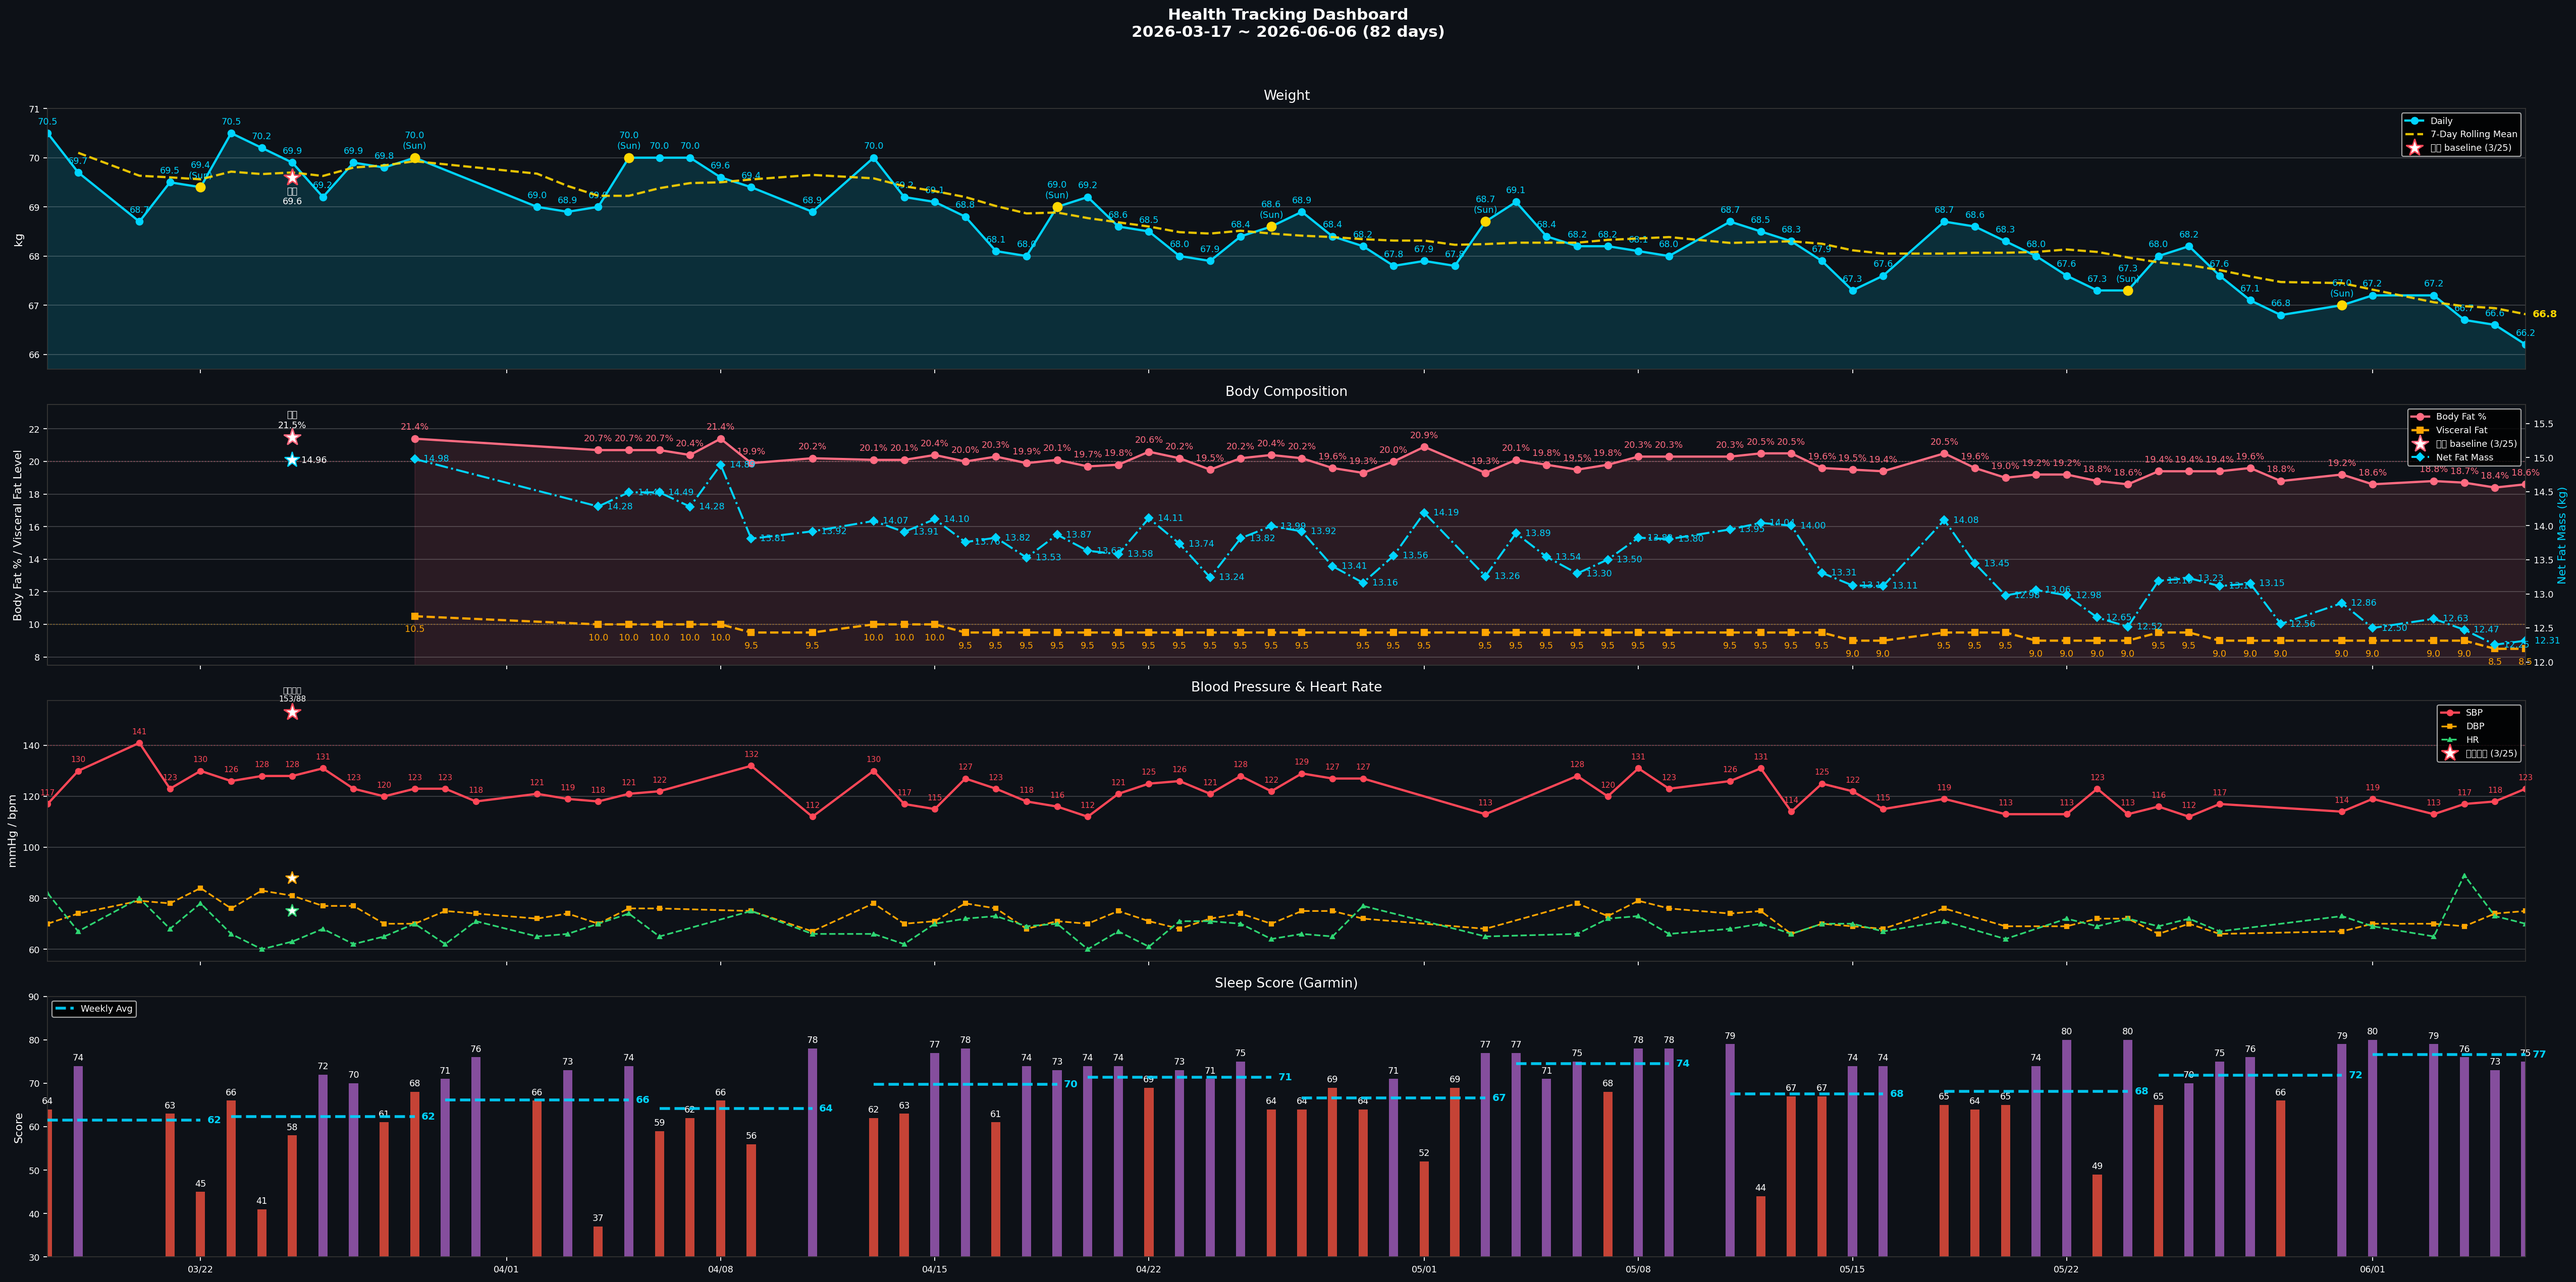
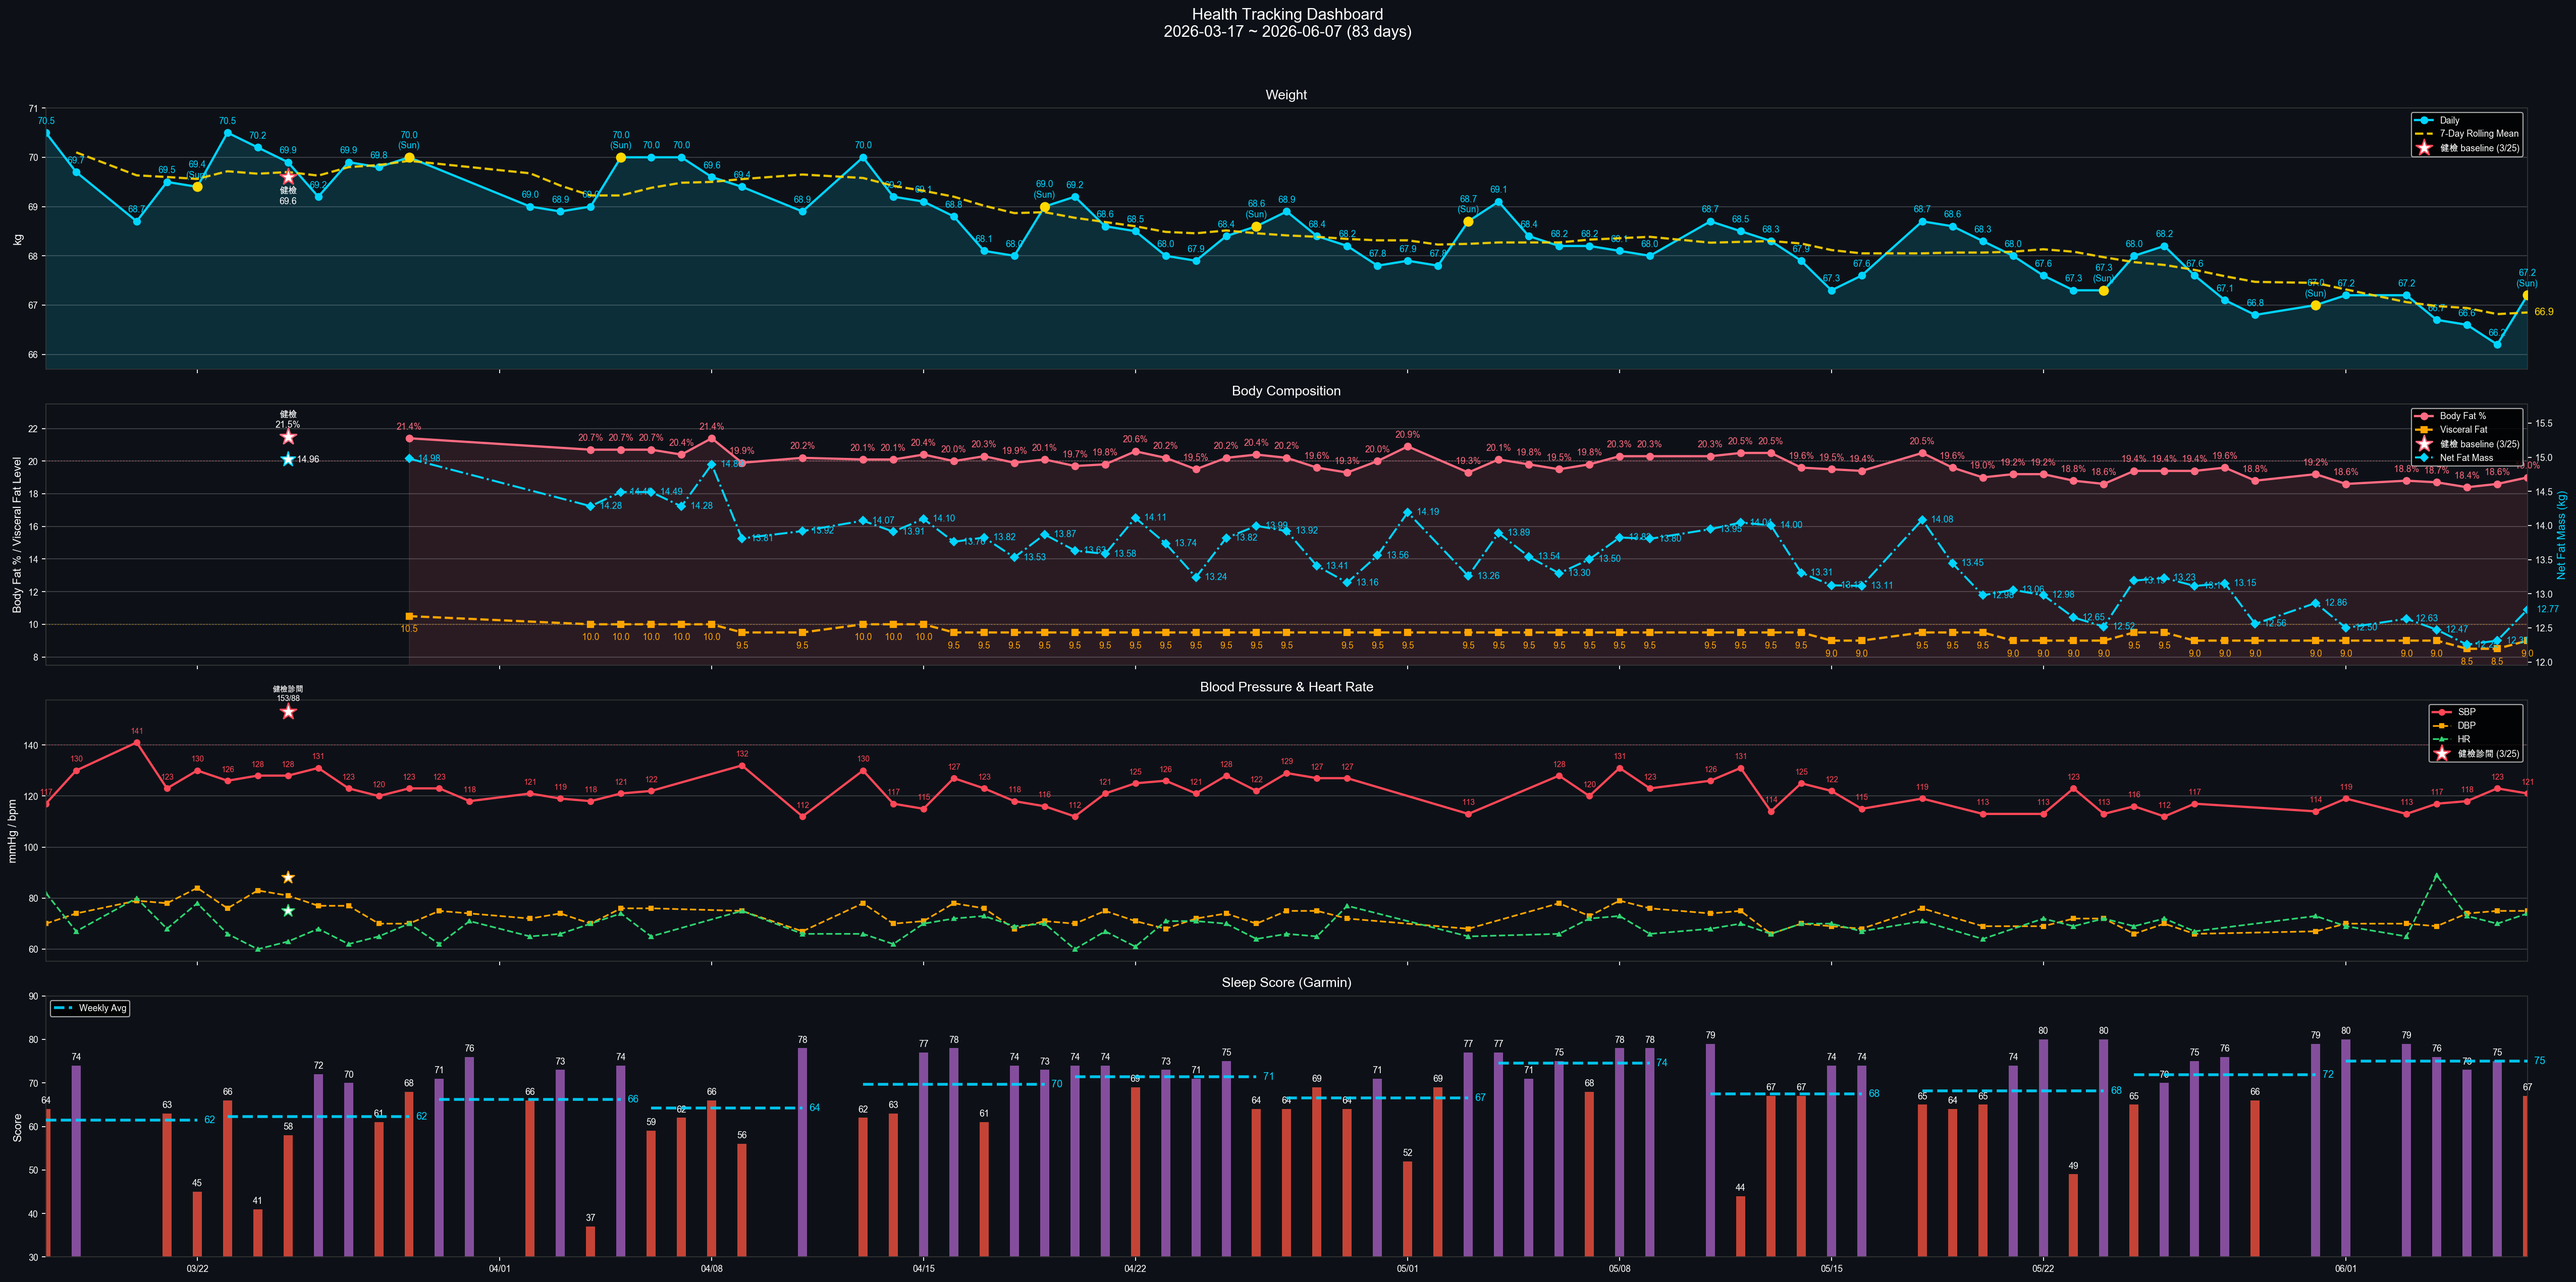
daily health log 2026-06-07

diff --git a/data.js b/data.js
@@ -17,17 +17,17 @@ window.HC_DATA = {
     lede:    { en: "Sleep, BP, lipids, uric acid — one shared metabolic root. Lifestyle stacks first; medication only after lifestyle plateaus.",
                zh: "睡眠、血壓、血脂、尿酸——共享同一個代謝根源。生活方式介入優先，等到效果平台期再考慮藥物。" },
     progressLbl: { en: "Weight progress · 70 → 65 kg", zh: "體重進度 · 70 → 65 公斤" },
-    progressMeta: { en: "Day 82 · 66.2 kg · Sat official (6/6)", zh: "第 82 天 · 66.2 公斤 · 週六正式（6/6）" },
-    startDate: { en: "Start date · Mar 17, 2026 · Last sync 6/6", zh: "起始日期 · 2026 年 3 月 17 日 · 最後同步 6/6" },
+    progressMeta: { en: "Day 83 · 66.2 kg · Sat official (6/6)", zh: "第 83 天 · 66.2 公斤 · 週六正式（6/6）" },
+    startDate: { en: "Start date · Mar 17, 2026 · Last sync 6/7", zh: "起始日期 · 2026 年 3 月 17 日 · 最後同步 6/7" },
     startWeight: 70,
     targetWeight: 65,
     currentWeight: 66.2,
     currentWeightDate: "6/6 Sat official",
     // Body comp current actuals — latest daily reading (6/5). Manual for now:
     // sync_data_js.py does NOT yet populate these (only weight/BP/sleep). Update on daily check-in.
-    currentBodyFat: 18.6,
-    currentVisceralFat: 8.5,
-    currentBodyCompDate: "6/6",
+    currentBodyFat: 19,
+    currentVisceralFat: 9,
+    currentBodyCompDate: "6/7",
     // Waist = WHO midpoint (健檢-comparable; better VAT proxy than weight). Latest non-empty daily reading.
     currentWaist: 82,
     currentWaistDate: "6/6",
@@ -54,14 +54,14 @@ window.HC_DATA = {
   markers: [
     {
       sys: "heart", name: { en: "Blood Pressure", zh: "血壓" },
-      val: "115/67", unit: "mmHg",
-      delta: { en: "W22 weekly avg (4 days) · target met (<130) · last 123/75 (6/6)", zh: "W22 週均（4 天）· 已達標 (<130) · 最新 123/75 (6/6)" },
+      val: "118/72", unit: "mmHg",
+      delta: { en: "W23 weekly avg (6 days) · target met (<130) · last 121/75 (6/7)", zh: "W23 週均（6 天）· 已達標 (<130) · 最新 121/75 (6/7)" },
       cadence: { en: "Daily · weekly avg", zh: "每日 · 週均" },
       status: "ok",
     },
     {
       sys: "sleep", name: { en: "Sleep Score", zh: "睡眠分數" },
-      val: "75", unit: "Garmin",
+      val: "67", unit: "Garmin",
       delta: { en: "5/4 · OSA flag: T90 18.4% (severe)", zh: "5/4 · OSA 紅旗：T90 18.4%（重度）" },
       cadence: { en: "Daily · Garmin", zh: "每日 · Garmin" },
       status: "warn",
@@ -937,17 +937,17 @@ window.HC_DATA = {
   tracker: {
     // [SBP, DBP] — gaps filled with prior reading
     bp: [
-      [113,69], [123,72], [113,72], [116,66], [112,70], [117,66], [117,66], [117,66], [114,67], [119,70], [113,70], [117,69], [118,74], [123,75],
+      [123,72], [113,72], [116,66], [112,70], [117,66], [117,66], [117,66], [114,67], [119,70], [113,70], [117,69], [118,74], [123,75], [121,75],
     ],
     // daily weight (kg)
-    weight: [67.6, 67.3, 67.3, 68, 68.2, 67.6, 67.1, 66.8, 67, 67.2, 67.2, 66.7, 66.6, 66.2],
+    weight: [67.3, 67.3, 68, 68.2, 67.6, 67.1, 66.8, 67, 67.2, 67.2, 66.7, 66.6, 66.2, 67.2],
     // Garmin Sleep Score
-    sleep:  [80, 49, 80, 65, 70, 75, 76, 66, 79, 80, 79, 76, 73, 75],
+    sleep:  [49, 80, 65, 70, 75, 76, 66, 79, 80, 79, 76, 73, 75, 67],
     // Body Battery waking
-    bb:     [56, 34, 59, 55, 53, 64, 59, 55, 69, 71, 53, 41, 40, 39],
+    bb:     [34, 59, 55, 53, 64, 59, 55, 69, 71, 53, 41, 40, 39, 29],
     // SpO2 nightly nadir % (last 14 days, parallel to bp/weight/sleep/bb).
     // Earlier nights null until sync_data_js.py backfills; banner only uses trailing values.
-    spo2Nadir: [83, 84, null, null, 87, 93, 94, 91, 86, 89, 87, 92, 94, 85],
+    spo2Nadir: [84, null, null, 87, 93, 94, 91, 86, 89, 87, 92, 94, 85, null],
   },
 
   // ===== Running — started 2026-04-26 =====

diff --git a/reviews/daily/2026-06-07.md b/reviews/daily/2026-06-07.md
@@ -1,0 +1,109 @@
+# 晨間健康紀錄 — 2026-06-07
+
+*3 分鐘。起床後立即完成。記錄，不分析。*
+
+---
+
+## 體重 / 體組成
+
+**今日：67.2 kg**
+**體脂率：19.0 %**
+**內臟脂肪等級：9.0**
+**腰圍 (WHO midpoint)：[ ] cm**（最下肋骨下緣 + 髂嵴頂端兩點水平中點環繞，通常在肚臍上方 2-5 cm；**與健檢歷史可比**；目標維持 ≤ 83、推進至 < 80 cm）
+**腰圍 (最大腹圍)：[ ] cm**（自然站立、吐氣末、不收腹，軟尺上下移動找最大讀數；通常在肚臍 0 至 -4 cm；**對內臟脂肪變化最敏感**）
+
+*每週六早晨為正式體重紀錄（排尿後、進食前；連 5 個工作日後、週末大餐前的真實低點）。其他日可選填。*
+*腰圍每日量（起床排尿後、進食前）。量兩個位置（WHO + max），方向應一致；若差距 > 3 cm 持續，考慮以 max 為主追蹤指標。*
+*WHO midpoint：科學標準，國健署 / 健檢 / metabolic syndrome 診斷用；最大腹圍：內臟脂肪 visceral fat correlation 最強。*
+
+---
+
+## 血壓（晨間）
+
+*起床後 1 小時內，上完廁所、進食前。坐下安靜 5 分鐘，連量兩次取第二次。*
+
+| 次數 | 收縮壓 | 舒張壓 | 心率 |
+|------|--------|--------|------|
+| 第一次 | | | |
+| 第二次 | 121 | 75 | 74 |
+
+---
+
+## 睡眠狀態
+
+**Garmin 偵測入睡：** 00:20
+**實際上床：** 00:20
+**實際起床：** 05:19
+**總睡眠時長：** 4h 56m（深眠 73 分 / REM 43 分）
+**中途醒來：** [ 無 / 次數：__ / 原因：__ ]
+**Garmin Sleep Score：** 67 / 100
+**Garmin Body Battery 起床值：** 29
+**主觀恢復感：** 3 / 5（1=極度疲憊, 5=精力充沛）
+**入睡 latency：** 0 分（步數訊號缺）
+**靜息心率：** 59 bpm｜**日均壓力：** 28
+
+### SpO2 desat 事件（每分鐘解析度）
+
+睡眠平均 98.0%｜瞬間最低 86%｜睡眠 ~299 分｜SpO2 < 90% 累計 5 分｜**T90 ≈ 1.7%**
+
+| 時段 | 長度 | 最低 | 平均 | 分級 |
+|------|------|------|------|------|
+| 04:47–04:48 | 2 分 | 89% | 89% | 🟢 邊緣 |
+| 05:11–05:13 | 3 分 | 86% | 86% | 🟡 紅旗 |
+
+**今晨日均 SpO2：** 97.0%
+**OSA 紅旗檢查：** T90 1.7%（< 10% ✅）｜最長 event 3 分（< 15 分 ✅）｜最低 86%（> 80% ✅）→ **未觸發升級**
+
+**SpO2 全夜圖：** reviews/daily/spo2/spo2_desat_2026-06-07.png
+
+*Sleep Score < 65 或 Body Battery < 50 連續三天 → 重新檢視睡眠修復方案。*
+
+---
+
+## 昨日回顧
+
+**實際飲水量：** 1.5 L（目標 ≥ 2.5L；高尿酸最佳 2.8–3.0L；17:00 前完成 60-70%）
+**昨日步數：** 7,731 步
+**昨日活動消耗：** [ ] kcal（主動 + BMR；自動讀自 Garmin daily summary 活動區塊）
+  - > 300 kcal → 今日可彈性增加 200-300 kcal 攝取
+  - < 100 kcal → 今日加強運動（補一段 Zone 2 走路 30 分）
+**昨日 Na / K / Na-K ratio：** [ ] mg / [ ] mg / [ ]（自動讀自 `scripts/analyze_nutrition.py --date YYYY-MM-DD`）
+  - Na/K < 0.5 ✅ / 0.5-0.6 🟢 / 0.6-0.8 🟡 / > 0.8 🟠（INTERSALT 1988）
+  - 連 3 天 ≥ 0.8 → 首選減鈉（自煮蛋取代茶葉蛋 −440 mg）或加 K（香蕉 +422 mg）
+
+---
+
+## 身體信號
+
+*任何張力、疼痛、疲勞、異常 — 或「清」。記位置、性質、強度。*
+
+| 部位 | 性質 | 強度 (0-10) |
+|------|------|-------------|
+| 清 | — | — |
+
+---
+
+## 今日計畫速記
+
+- [ ] 飲水目標：2.5 L（建議 2.5–3.0L；錨點 09:30 ≥1.0L / 13:30 ≥2.0L / 17:00 截止 2.5L）
+- [ ] 補充品（核心，2026-05-11 v2）：
+  - 早餐（06:00）：D3 2000 IU + **K2 MK-7 180 mcg** + **L-Citrulline 4 g** + 益生菌
+  - 午餐前 30 min：Psyllium 5 g + 350 mL 水
+  - 晚餐前 30 min：Psyllium 5 g + 350 mL 水
+  - 晚餐後：魚油 ×4（拆 18:30 ×2 + 19:30 ×2）
+  - 睡前（21:00）：鎂甘胺酸 400 mg + 酸櫻桃 1000-2000 mg + **Glycine 純粉 3 g**（起步 1.5 g × 3 晚）
+  - 茶飲：洛神花 ×2 杯（早 + 14:00 前）
+  - 食物層：南瓜籽 30 g（15:30）+ **菇蕈 100-130 g/天**（午 30-50 + 晚 50-80）
+  - ⏸ 待定：NAC 600 mg × 2（待 PSG 結果）
+- [ ] 運動（17:00 固定）：重量訓練 + 斜坡走路（slant walk）
+- [ ] 活動度/伸展（09:30 + 20:30 兩次錨點）：____________________
+- [ ] Wind-down（20:00 燈光降 + 螢幕濾鏡，液體截止）
+- [ ] 上床 21:30 / 熄燈 22:00（TST 目標 7h+）
+
+---
+
+💡 **PT 建議：** 今晨 Body Battery 僅 29（< 40）+ 總睡眠 4h56m（< 5h）→ 恢復不足分級，重訓請降級為 RPE ≤ 4/10、減一組，主軸放在 slant walk 即可，避免低電量下全力阻力訓練放大滯水與夜間血壓。SpO2 端安心：T90 1.7%、最長 desat 3 分、最低 86%，三項 OSA 紅旗全未觸發，昨晚問題是「睡太短」非呼吸中斷——今晚優先把上床時間拉回 21:30。昨日飲水 1.5L 偏低（UA 排泄打折），今早起床先補 500 mL，全天回到 2.5L。
+
+---
+
+*Filed: reviews/daily/2026-06-07.md*

diff --git a/reviews/weekly/2026-W23.md b/reviews/weekly/2026-W23.md
@@ -31,9 +31,9 @@
 
 |  | 一 | 二 | 三 | 四 | 五 | 六 | 日 |
 |--|----|----|----|----|----|----|-----|
-| 體重 (kg) | 67.2 | | 67.2 | 66.7 | 66.6 | 66.2 | |
-| 體脂率 (%) | 18.6 | | 18.8 | 18.7 | 18.4 | 18.6 | |
-| 內臟脂肪 | 9.0 | | 9.0 | 9.0 | 8.5 | 8.5 | |
+| 體重 (kg) | 67.2 | | 67.2 | 66.7 | 66.6 | 66.2 | 67.2 |
+| 體脂率 (%) | 18.6 | | 18.8 | 18.7 | 18.4 | 18.6 | 19.0 |
+| 內臟脂肪 | 9.0 | | 9.0 | 9.0 | 8.5 | 8.5 | 9.0 |
 | **腰圍 WHO (cm)** | 83 | | | 82 | | 82 | |
 | **腰圍 max (cm)** | | | | | | | |
 
@@ -57,9 +57,9 @@
 | 06-04 (四) | 117 | 69 | 89 |
 | 06-05 (五) | 118 | 74 | 73 |
 | 06-06 (六) | 123 | 75 | 70 |
-| 06-07 (日) | | | |
+| 06-07 (日) | 121 | 75 | 74 |
 
-**本週平均：** _____ / _____ mmHg，心率 _____ bpm
+**本週平均：** 118.5 / 72.2 mmHg，心率 73.3 bpm（6 天，缺 06-02）
 
 *收縮壓週均 > 130 或舒張壓 > 85 → 標記為需關注。*
 
@@ -75,13 +75,13 @@
 | 06-04 (四) | 23:03 | 05:37 | 無 | 76 | 41 | 3 |
 | 06-05 (五) | 22:53 | 04:48 | 無 | 73 | 40 | 3 |
 | 06-06 (六) | 22:02 | 04:33 | 無 | 75 | 39 | 3 |
-| 06-07 (日) | | | | | | |
+| 06-07 (日) | 00:20 | 05:19 | 無 | 67 | 29 | 3 |
 
-**Sleep Score 週均：** _____ / 100
-**Body Battery 週均：** _____
-**主觀恢復感週均：** _____ / 5
-**連續 < 65 天數：** _____
-**22:30 前就寢天數：** _____ / 7
+**Sleep Score 週均：** 75 / 100（末三天 73→75→67 下滑）
+**Body Battery 週均：** 45.5（末三天 40→39→29 探底）
+**主觀恢復感週均：** 3.0 / 5
+**連續 < 65 天數：** 0
+**22:30 前就寢天數：** 2 / 7
 
 ---
 
@@ -105,7 +105,7 @@
 
 | 信號（部位+性質） | 出現天數 | 平均強度 | 趨勢（↑↓→） | 備註 |
 |-------------------|----------|----------|-------------|------|
-| 清（無信號） | 5 | 0 | → | 06-01, 06-03, 06-04, 06-05, 06-06 |
+| 清（無信號） | 6 | 0 | → | 06-01, 06-03, 06-04, 06-05, 06-06, 06-07 |
 
 **反覆出現（≥ 3 天）：** 無
 
@@ -132,6 +132,7 @@
 | 06-03 (三) | walk（Zone 2 走路） |
 | 06-04 (四) | walk（Zone 2 走路） |
 | 06-05 (五) | walk（Zone 2 走路） |
+| 06-07 (日) | 重量訓練 + 斜坡走路（slant walk） |
 
 ---
 
